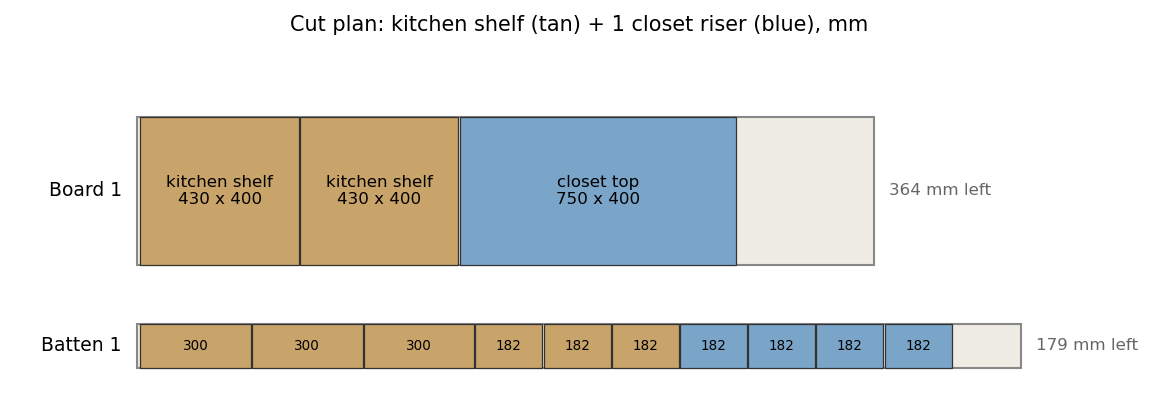
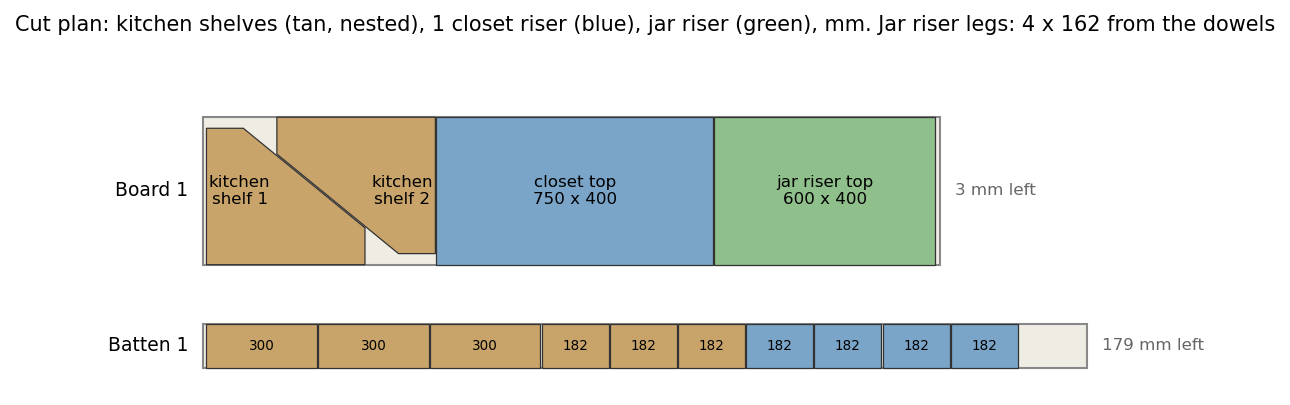
Nest the kitchen shelves on the board; add the 600 x 400 jar riser on dowel legs

Changed region(s): [[0.0311, 0.2667, 0.8712, 0.6815], [0.0311, 0.8, 0.9957, 0.9185], [0.0, 0.0296, 0.9957, 0.0889]]

diff --git a/under_sink_shelf/buy.html b/under_sink_shelf/buy.html
@@ -77,7 +77,7 @@
   <div class="card">
     <ul>
       <li><strong>Castorama versus Amazon overall:</strong> the timber is only at Castorama, so a Castorama trip is needed either way. Buying everything else on Amazon too costs more (about €122 against €111), mostly because of clamps, brush and sandpaper. The cheapest mix is Castorama for everything except the brackets.</li>
-      <li><strong>Screws: small packs win.</strong> You need about 20 of the 4 × 40 mm (12 kitchen, 8 riser). Castorama's own Diall A2 screws also come in packs of 20 at €5.89; two packs (€11.78) leave spares and cost €8 less than the 200-pack at €19.90. Les Ulis had one pack of 20 in stock on 28 Oct, so order the second for pickup or delivery. If you order on Amazon anyway, 200 A2 Torx 4 × 40 cost €14.90; a 50-pack costs €11.92, so there the big pack is the better deal.</li>
+      <li><strong>Screws: small packs win.</strong> You need about 24 of the 4 × 40 mm (12 kitchen, 8 closet riser, 4 jar riser). Castorama's own Diall A2 screws also come in packs of 20 at €5.89; two packs (€11.78) leave spares and cost €8 less than the 200-pack at €19.90. Les Ulis had one pack of 20 in stock on 28 Oct, so order the second for pickup or delivery. If you order on Amazon anyway, 200 A2 Torx 4 × 40 cost €14.90; a 50-pack costs €11.92, so there the big pack is the better deal.</li>
       <li><strong>Timber: Castorama only.</strong> I found no like-for-like 18 mm × 40 × 200 cm pine board or 27 × 27 × 2.4 m pine batten on Amazon. The results were craft strips and cutting boards.</li>
       <li><strong>Brackets: Amazon is cheaper and better.</strong> VFANDV's pack of 20 stainless 40 × 40 × 16 mm brackets with screws is €7.79, dispatched by Amazon. Castorama's pack of 25 is galvanised, €13.90, and has no screws. You need 9 for the kitchen and 4 for the riser. The listing photo shows the screws as 15 mm long, short enough not to come through an 18 mm shelf, and 4 holes per bracket. The title says 80 screws but the photo says 60; 13 brackets need 52.</li>
       <li><strong>Tools and consumables: Castorama is cheaper.</strong> Clamps, sandpaper and a brush all cost less there. The crosscut saw is the exception: Stanley's 500 mm JetCut fine is €16.92 on Amazon against €17.90 for the 450 mm one at Castorama. It is picked at Castorama because €1 does not cover Amazon's small-order delivery.</li>
@@ -93,7 +93,7 @@
       <li>For the damp cabinet the glue should be water-resistant (D3). The Pattex Power pick is rated "water resistant", with no D-class on the listing. Sader Pro D3 (100 g, €9.89) is the one that states D3.</li>
       <li>A pilot drill bit (2.5 mm) and a countersink are not on the list. Add them if you do not have them.</li>
       <li>The saw is a fine-tooth crosscut saw rather than the coping saw on earlier versions of this list: the top-shelf notch it was for is gone, and every cut left is straight. The fine teeth leave a cleaner edge on the pine.</li>
-      <li><strong>Leftovers after the kitchen shelf and the riser:</strong> a board offcut of about 360 × 400 mm and about 175 mm of batten. That is enough for one more small riser if it uses board for the sides: a top 360 × 200 mm and two sides about 178 × 197 mm (rip the offcut into two 200 mm strips) makes a U-shaped riser about 36 cm wide, 20 cm deep and 20 cm tall. A riser on four legs taller than about 4 cm would need another batten (€8.69).</li>
+      <li><strong>Jar riser for the kitchen top closet:</strong> a 600 × 400 mm top on four 20 mm dowel legs, 162 mm long, 18 cm tall overall. The legs come from your two 1 m dowels, so it costs nothing extra. The top fits on the same board only if the two kitchen shelves are cut nested (turned 180° to each other, see the cut plan on the Design tab), which brings them from 860 mm of board down to 621 mm. Fix each leg with one 4 × 40 screw down through the top into a 2.5 mm pilot hole in the centre of the dowel end, plus glue. After all three pieces, about 175 mm of batten and the dowel offcuts are left.</li>
       <li><strong>Closet riser:</strong> a 750 × 400 mm top (the closet is about 76 cm wide with obstacles) on four 27 × 27 mm legs, 182 mm long, 200 mm tall overall. Fix each leg with two 4 × 40 screws down through the top. Brackets and glue are optional on the riser: its legs are short and only carry weight straight down. The cut plan is in <code>closet_riser.py</code>.</li>
     </ul>
   </div>
@@ -104,13 +104,13 @@ const CA = "https://www.castorama.fr/search?term=";
 const AM = "https://www.amazon.fr/s?k=";
 // pick: "c" or "a". price = price of one pack/unit as listed; amz may be null when there is no like-for-like.
 const ITEMS = [
-  { id:"board", name:"Pine board 40 × 200 cm, 18 mm", need:"1 board: both kitchen shelves (860 mm) + the closet riser top (750 mm)",
+  { id:"board", name:"Pine board 40 × 200 cm, 18 mm", need:"1 board: both kitchen shelves nested (621 mm), the closet riser top (750 mm) and the jar riser top (600 mm)",
     c:{ t:"Tablette en pin massif PPA18400", p:16.90, u:"https://www.castorama.fr/tablette-en-pin-massif-40-x-200-cm-ep-18-mm-ppa18400/3760002269221_CAFR.prd", s:"4.7★ (11)" },
     a:null, pick:"c" },
   { id:"batten", name:"Pine batten 27 × 27 × 2400 mm", need:"1: kitchen posts (1446 mm) + 4 riser legs of 182 mm",
     c:{ t:"Baguette d'angle rabotée pin 27 × 27 mm, 2.4 m", p:8.69, u:"https://www.castorama.fr/baguette-d-angle-rabotee-pin-27-x-27-mm-l-2-4-m/3663602871934_CAFR.prd", s:"4.65★ (20); bevelled edge" },
     a:null, pick:"c" },
-  { id:"screws", name:"Stainless wood screws 4 × 40 mm (A2)", need:"about 20: 12 for the kitchen + 8 for the riser (2 per leg)",
+  { id:"screws", name:"Stainless wood screws 4 × 40 mm (A2)", need:"about 24: 12 for the kitchen, 8 for the closet riser (2 per leg), 4 for the jar riser",
     c:{ t:"Diall A2 Pozidriv 4 × 40, 20 pcs, × 2 packs", p:11.78, u:"https://www.castorama.fr/vis-a-bois-en-acier-inoxydable-a2-pozidriv-4x40-mm-20-pieces/3663602748465_CAFR.prd", s:"€5.89 per pack, 5★ (2); the 200-pack is €19.90" },
     a:{ t:"A2 Torx 4 × 40 countersunk, full thread, 200 pcs", p:14.90, u:AM+"vis+bois+inox+A2+4x40+200+pi%C3%A8ces", s:"4.5★ (78); 50 pcs €11.92" }, pick:"c" },
   { id:"brackets", name:"Corner brackets 40 × 40 mm", need:"9 for the kitchen; 4 more for the riser are optional (the pack has 11 spare)",
@@ -134,7 +134,7 @@ const ITEMS = [
   { id:"brush", name:"Flat brush 40 mm, for oil and varnish", need:"1",
     c:{ t:"GoodHome flat brush, oil/varnish/stain, 40 mm", p:3.99, u:CA+"pinceau%20huile%20de%20lin%20plat", s:"4.66★ (215)" },
     a:{ t:"3 flat brushes 30/50/70 mm", p:7.99, u:AM+"pinceau+plat+vernis+lasure+40+mm", s:"466 reviews" }, pick:"c" },
-  { id:"oil", name:"Boiled linseed oil, 1 L", need:"1 (about 1.3 m² to cover with the riser)",
+  { id:"oil", name:"Boiled linseed oil, 1 L", need:"1 (about 1.8 m² to cover with both risers)",
     c:{ t:"Phébus linseed oil, 1 L", p:8.79, u:CA+"huile%20de%20lin%20phebus", s:"4.66★ (3)" },
     a:{ t:"Galloil baked linseed oil, 1 L (not the same product)", p:9.30, u:AM+"phebus+huile+de+lin+cuite+1+L", s:"8 reviews" }, pick:"c" },
 ];

diff --git a/under_sink_shelf/index.html b/under_sink_shelf/index.html
@@ -106,14 +106,17 @@
   <div class="card">
     <table>
       <tr><th>Part</th><th>Qty</th><th>Size (mm)</th><th>Notes</th></tr>
-      <tr><td>Pine board</td><td>1</td><td>40 × 200 × 1.8 cm</td><td>Castorama PPA18400. Both shelves fit in one 400 × 860 mm piece, with about 1.1 m spare.</td></tr>
+      <tr><td>Pine board</td><td>1</td><td>40 × 200 × 1.8 cm</td><td>Castorama PPA18400. Cut the two shelves nested (below): together they take 621 mm of the board, leaving room for the closet riser top (750 mm) and the jar riser top (600 mm).</td></tr>
       <tr><td>Middle shelf</td><td>1</td><td>370 back, 430 deep, 100 front × 18</td><td>Cut from a 370 × 430 mm rectangle. Mark 100 mm in from the back along the left edge, and the point 100 mm from the right side along the front edge, and join the two with one straight saw cut. Keep the other corners square.</td></tr>
-      <tr><td>Top shelf</td><td>1</td><td>Same outline, notch 100 × 70 mm at the back</td><td>Drill two corner holes in the notch, then saw it out with a coping saw.</td></tr>
+      <tr><td>Top shelf</td><td>1</td><td>Same outline as the middle shelf</td><td>Turned 180° on the board so its diagonal runs beside the middle shelf's (see the cut plan).</td></tr>
       <tr><td>Base posts</td><td>3</td><td>27 × 27 × 300</td><td>Under the middle shelf.</td></tr>
       <tr><td>Middle posts</td><td>3</td><td>27 × 27 × 182</td><td>Between the shelves.</td></tr>
       <tr><td>Corner brackets</td><td>9</td><td>40 × 40 mm</td><td>One per joint, as in v2.</td></tr>
     </table>
-    <p class="note">Batten total: 1446 mm plus about 12 mm of kerf. One 2.4 m batten is enough.</p>
+    <p class="note">Batten total: 1446 mm plus about 12 mm of kerf. One 2.4 m batten is enough, with room for the four closet riser legs.</p>
+    <p><strong>Nested cut:</strong> lay the middle shelf at one end of the board, its 370 mm back edge across the board against one long edge, and its 100 mm front edge 430 mm along. Turn the top shelf 180° and put it against the other long edge, with its narrow front edge 191 mm from the end of the board, so the two diagonals run side by side about 4 mm apart. Both shelves end 621 mm from the end of the board. Saw the two diagonals as two separate cuts, one on each line.</p>
+    <img src="renders/closet_cut_plan.png" alt="Cut plan: the two kitchen shelves nested at one end of the board, then the 750 × 400 closet riser top and the 600 × 400 jar riser top; the batten holds the six kitchen posts and four closet riser legs." style="max-width:100%;height:auto">
+    <p class="note">The closet riser (750 × 400 top, four 182 mm batten legs) and the jar riser (600 × 400 top, four 162 mm legs from 20 mm dowels, 18 cm tall) are on the Cost &amp; buy list tab. Generated by <code>closet_riser.py</code>.</p>
   </div>
 
   <h2>5. Varnish: water-based vs linseed oil</h2>
@@ -157,7 +160,7 @@
   <h2>8. Build notes</h2>
   <div class="card">
     <p><strong>Before cutting:</strong> check the back of your cabinet for the trap and the dishwasher hose. The design does not allow for them, so if either sits where the top shelf or a post would go, tell me before cutting.</p>
-    <p><strong>Cutting:</strong> mark the outline on the board with a square, clamp a batten on each line, and support the board so the tail doesn't tear out. The notch on the top shelf goes last.</p>
+    <p><strong>Cutting:</strong> mark the outline on the board with a square, clamp a batten on each line, and support the board so the tail doesn't tear out.</p>
     <p><strong>Drilling:</strong> pre-drill 2.5 mm through the shelf and into the post, countersink, and keep screws at least 15 mm from any edge.</p>
     <p><strong>Finish:</strong> sand to 120 then 180 grit, and vacuum. Seal the end grain first. For water-based varnish, follow the datasheet recoat times and sand lightly between coats. For linseed oil, thin coats with at least two weeks to cure.</p>
     <p><strong>Oily rags:</strong> lay them flat outdoors to dry, or soak them in water and put them in a sealed metal bin.</p>

diff --git a/under_sink_shelf/closet_riser.py b/under_sink_shelf/closet_riser.py
@@ -5,8 +5,12 @@ A riser is one 750 x 400 x 18 mm pine top on four 27 x 27 mm batten legs, 200 mm
 overall. It stands on an existing closet shelf (80 x 40 cm, ~76 cm usable) and splits the ~40 cm gap above
 it in two (182 mm clear under the top, about 200 mm above it).
 
-    python3 under_sink_shelf/closet_riser.py        # table for 0..6 risers, cut plan for 3
-    python3 under_sink_shelf/closet_riser.py 2      # cut plan for 2 risers
+A second, small riser for empty jars in a kitchen top closet (v2, 2026-10-28): a 600 x 400 top
+on four 20 mm dowel legs (Dylan's two 1 m dowels, not the batten), 180 mm tall overall. It fits
+on the first board only because the two kitchen shelves are cut nested (see NEST_D).
+
+    python3 under_sink_shelf/closet_riser.py        # table for 0..6 closet risers, cut plan for 1
+    python3 under_sink_shelf/closet_riser.py 2      # cut plan for 2 closet risers
 
 Stock and prices are the ones in buy.html (Castorama, read 2026-10-16). Writes
 renders/closet_cut_plan.png.
@@ -33,9 +37,17 @@ KITCHEN_EUR = 99.47                                # recommended basket in buy.h
 KERF = 3                                           # saw cut, plus a little for squaring
 END_TRIM = 10                                      # off each factory end, in case it is not square
 
-# The kitchen shelf takes 860 mm of the first board (two shelves, 400 x 430 each, cut straight)
-# and six posts from the first batten.
-KITCHEN_BOARD = [("kitchen shelf", 430), ("kitchen shelf", 430)]
+# Jar riser for the kitchen top closet: top from the board, legs from 20 mm dowels.
+JAR_TOP_L = 600
+JAR_HEIGHT = 180
+JAR_LEG_L = JAR_HEIGHT - bm.T    # 162, four of them from the 2 m of dowel
+
+# The two kitchen shelves are cut nested: the second one is turned 180 degrees so the two diagonal
+# edges run side by side, one saw cut apart. Board frame: u along the board, v across it (0..400).
+SHELF_UV = [(y - 15, x - 15) for x, y in bm.OUTLINE_LOW]   # 430 long, 370 across
+NEST_D = 191                     # u of the second shelf's narrow end; >= 3 mm between the diagonals
+NEST_L = NEST_D + 430            # 621 mm of board for both shelves (860 if cut straight)
+KITCHEN_BOARD = [("kitchen shelves", NEST_L)]
 KITCHEN_POSTS = [("kitchen post", bm.Z_LOW)] * 3 + [("kitchen post", bm.Z_UP - bm.Z_LOW - bm.T)] * 3
 
 E_PINE = 9000                    # MPa along the grain, on the low side for pine
@@ -57,7 +69,7 @@ def pack(pieces, stock_len):
 
 
 def plan(n):
-    boards = pack(KITCHEN_BOARD + [("closet top", TOP_L)] * n, BOARD_L)
+    boards = pack(KITCHEN_BOARD + [("closet top", TOP_L)] * n + [("jar riser top", JAR_TOP_L)], BOARD_L)
     battens = pack(KITCHEN_POSTS + [("closet leg", LEG_L)] * (LEGS * n), BATTEN_L)
     packs = -(-(9 + BRACKETS * n) // BRACKET_PACK)
     extra = (len(boards) - 1) * BOARD_EUR + (len(battens) - 1) * BATTEN_EUR + (packs - 1) * BRACKET_EUR
@@ -76,12 +88,13 @@ def draw(n):
     import matplotlib
     matplotlib.use("Agg")
     import matplotlib.pyplot as plt
-    from matplotlib.patches import Rectangle
+    from matplotlib.patches import Polygon, Rectangle
 
     boards, battens, _, _ = plan(n)
     rows = [("Board", i + 1, b, BOARD_L, BOARD_W) for i, b in enumerate(boards)]
     rows += [("Batten", i + 1, b, BATTEN_L, 120) for i, b in enumerate(battens)]
-    colour = {"kitchen shelf": "#c9a46a", "kitchen post": "#c9a46a", "closet top": "#7aa5c9", "closet leg": "#7aa5c9"}
+    colour = {"kitchen shelves": "#c9a46a", "kitchen post": "#c9a46a", "closet top": "#7aa5c9",
+              "closet leg": "#7aa5c9", "jar riser top": "#8fbf8a"}
 
     fig, ax = plt.subplots(figsize=(11, 1.1 + 0.95 * len(rows)), dpi=150)
     y = 0
@@ -90,6 +103,14 @@ def draw(n):
         ax.add_patch(Rectangle((0, y), length, h, fc="#efece4", ec="#888"))
         x = END_TRIM
         for label, size in b:
+            if label == "kitchen shelves":
+                second = [(NEST_D + 430 - u, BOARD_W - v) for u, v in SHELF_UV]
+                for shape in (SHELF_UV, second):
+                    ax.add_patch(Polygon([(x + u, y + v) for u, v in shape], fc=colour[label], ec="#333", lw=.6))
+                ax.text(x + 90, y + 200, "kitchen\nshelf 1", ha="center", va="center", fontsize=8)
+                ax.text(x + size - 90, y + 200, "kitchen\nshelf 2", ha="center", va="center", fontsize=8)
+                x += size + KERF
+                continue
             ax.add_patch(Rectangle((x, y), size, h, fc=colour[label], ec="#333", lw=.6))
             ax.text(x + size / 2, y + h / 2, f"{size}" if kind == "Batten" else f"{label}\n{size} x {BOARD_W}",
                     ha="center", va="center", fontsize=6.5 if kind == "Batten" else 8)
@@ -101,14 +122,15 @@ def draw(n):
     ax.set_ylim(y - 60, 40)
     ax.set_aspect("equal")
     ax.axis("off")
-    ax.set_title(f"Cut plan: kitchen shelf (tan) + {n} closet riser{'s' * (n != 1)} (blue), mm", fontsize=10)
+    ax.set_title(f"Cut plan: kitchen shelves (tan, nested), {n} closet riser{'s' * (n != 1)} (blue), "
+                 f"jar riser (green), mm. Jar riser legs: 4 x {JAR_LEG_L} from the dowels", fontsize=10)
     OUT.parent.mkdir(exist_ok=True)
     fig.savefig(OUT, bbox_inches="tight")
     print("wrote", OUT)
 
 
 if __name__ == "__main__":
-    n_draw = int(sys.argv[1]) if len(sys.argv) > 1 else 3
+    n_draw = int(sys.argv[1]) if len(sys.argv) > 1 else 1
     print("risers  boards  battens  bracket packs  extra EUR  total EUR")
     for n in range(7):
         boards, battens, packs, extra = plan(n)

diff --git a/HANDOFF.md b/HANDOFF.md
@@ -40,6 +40,11 @@ Brackets then switched to the product Dylan found: VFANDV 20 stainless 40x40x16 
 7.79 EUR, https://www.amazon.fr/dp/B0D6YTK3KT (photo: screws 15 mm, 4 holes; title says 80 screws,
 photo 60). Totals now: recommended 99.47, all-Castorama 110.92, Amazon wherever possible 122.26.
 The other Amazon links in buy.html are still search links, not products.
+Jar riser (kitchen top closet, empty jars): 600 x 400 top on four 162 mm legs cut from Dylan's
+two 1 m x 20 mm dowels, 18 cm tall, one 4x40 screw + glue per leg. It only fits on the board
+because the two kitchen shelves are now cut NESTED (second turned 180 deg, narrow end at 191 mm,
+621 mm total instead of 860); board is then used to within the 10 mm end trims. Design tab cut
+list updated (also dropped the stale v4 notch row). Jar-closet shelf size not confirmed by Dylan.
 Published to the site on 2026-10-28.
 
 **Resume:** Shelf v10 and the Cost & buy list tab are live; wait for Dylan's feedback on the shape, then check Palaiseau stock.
